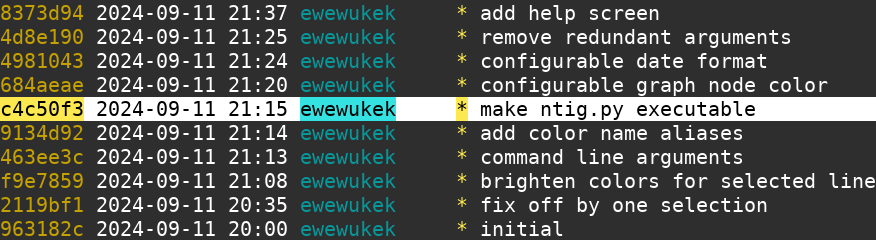
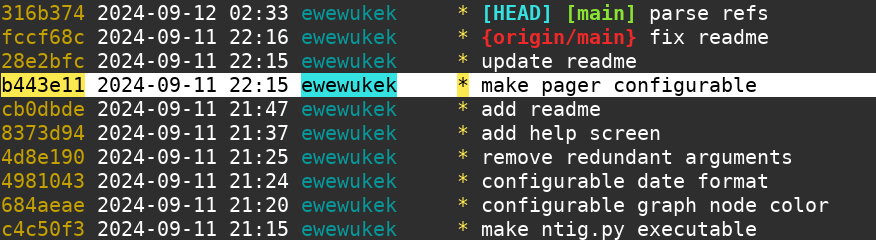
parse refs

diff --git a/ntig.py b/ntig.py
@@ -51,6 +51,12 @@ def load_log(cfg):
             '--pretty=format:%ad %aN %h %s',
             '--date=format:%s'
         ])
+
+        if '{refs}' in cfg['log_fmt']:
+            refs_data = subprocess.check_output(['git', 'show-ref', '--head'])
+        else:
+            refs_data = b''
+
     except subprocess.CalledProcessError as e:
         if e.output:
             print(e.output)
@@ -71,6 +77,7 @@ def load_log(cfg):
             'date': '',
             'author': '',
             'hash': '',
+            'refs': '',
             'message': '',
         }
         if m := log_line_re.match(line):
@@ -85,7 +92,7 @@ def load_log(cfg):
 
         g = g.strip()
         g = brighten(g)
-        if cfg['node_color'] and cfg['node_color'] != COLORS['default']:
+        if cfg['node_color'] != COLORS['default']:
             g = g.replace('*', cfg['node_color'] + '*' + COLORS['default'])
         g = g.replace('\033[m', '\033[39m')
         commit['graph'] = g
@@ -95,10 +102,71 @@ def load_log(cfg):
 
         log.append(commit)
 
+    refs = {}
+    refs_line_re = re.compile(r'^([0-9a-f]{40,}) (.*)$')
+    for line in refs_data.splitlines():
+        line = line.decode('utf8')
+
+        m = refs_line_re.match(line)
+        h = m.group(1)[0:lengths['hash']]
+        if h not in refs:
+            refs[h] = {}
+
+        ref = m.group(2)
+        if ref == 'HEAD':
+            if cfg['decorate']:
+                ref = '[' + ref + ']'
+            refs[h]['head'] = [ref]
+
+        elif ref[0:11] == 'refs/heads/':
+            if 'branch' not in refs[h]:
+                refs[h]['branch'] = []
+            ref = ref[11:]
+            if cfg['decorate']:
+                ref = '[' + ref + ']'
+            refs[h]['branch'].append(ref)
+
+        elif ref[0:13] == 'refs/remotes/':
+            if 'remote' not in refs[h]:
+                refs[h]['remote'] = []
+            ref = ref[13:]
+            if cfg['decorate']:
+                ref = '{' + ref + '}'
+            refs[h]['remote'].append(ref)
+
+        elif ref[0:10] == 'refs/tags/':
+            if 'tag' not in refs[h]:
+                refs[h]['tag'] = []
+            ref = ref[10:]
+            if cfg['decorate']:
+                ref = '<' + ref + '>'
+            refs[h]['tag'].append(ref)
+
+        elif ref == 'refs/stash':
+            if cfg['decorate']:
+                ref = '[' + ref + ']'
+            refs[h]['stash'] = [ref]
+
     for commit in log:
+        if commit['hash'] in refs:
+            ref = refs[commit['hash']]
+            parts = []
+            for field in ['head', 'branch', 'tag', 'remote', 'stash']:
+                if field in ref:
+                    part = ' '.join(ref[field])
+                    color = cfg[f'{field}_color']
+                    if color != COLORS['default']:
+                        part = color + part + '\033[39m'
+                    parts.append(part)
+
+            commit['refs'] = ' '.join(parts)
+            if cfg['refs_bold']:
+                commit['refs'] = '\033[1m' + commit['refs'] + '\033[22m'
+            commit['refs'] += ' '
+
         for field in ['date', 'author', 'hash']:
             color = cfg[f'{field}_color']
-            if color and color != COLORS['default']:
+            if color != COLORS['default']:
                 commit[field] = (
                     color + commit[field] + COLORS['default']
                     + ' ' * (lengths[field] - len(commit[field])))
@@ -142,6 +210,12 @@ def parse_arguments():
         default='default',
         metavar='')
     parser.add_argument(
+        '--ntig-date-fmt',
+        help='date format',
+        dest='date_fmt',
+        default='%d %b %H:%M',
+        metavar='')
+    parser.add_argument(
         '--ntig-author',
         help='author name color',
         dest='author_color',
@@ -153,17 +227,53 @@ def parse_arguments():
         dest='node_color',
         default='bright-yellow',
         metavar='')
+
     parser.add_argument(
-        '--ntig-date-fmt',
-        help='date format',
-        dest='date_fmt',
-        default='%d %b %H:%M',
+        '--ntig-head',
+        help='HEAD color',
+        dest='head_color',
+        default='bright-cyan',
         metavar='')
+    parser.add_argument(
+        '--ntig-branch',
+        help='local branch color',
+        dest='branch_color',
+        default='bright-green',
+        metavar='')
+    parser.add_argument(
+        '--ntig-remote',
+        help='remote branch color',
+        dest='remote_color',
+        default='bright-red',
+        metavar='')
+    parser.add_argument(
+        '--ntig-tag',
+        help='tag color',
+        dest='tag_color',
+        default='bright-yellow',
+        metavar='')
+    parser.add_argument(
+        '--ntig-stash',
+        help='stash color',
+        dest='stash_color',
+        default='bright-blue',
+        metavar='')
+    parser.add_argument(
+        '--ntig-refs-bold',
+        help='show refs in bold',
+        action='store_true',
+        dest='refs_bold')
+    parser.add_argument(
+        '--ntig-decorate',
+        help='decorate refs',
+        action='store_true',
+        dest='decorate')
+
     parser.add_argument(
         '--ntig-log',
         help='log format',
         dest='log_fmt',
-        default='{hash} {date} {author} {graph} {message}',
+        default='{hash} {date} {author} {graph} {refs}{message}',
         metavar='')
     parser.add_argument(
         '--ntig-pager',
@@ -181,11 +291,15 @@ def parse_arguments():
     else:
         cfg['pager'] = shlex.split(cfg['pager'])
 
-    for field in ['hash_color', 'date_color', 'author_color', 'node_color']:
+    for field in ['hash_color', 'date_color', 'author_color', 'node_color',
+                  'head_color', 'branch_color', 'remote_color',
+                  'tag_color', 'stash_color']:
         color = cfg[field]
+        if not color.strip():
+            color = 'default'
         if color[0:4] == '\\033':
             color = '\033' + color[4:]
-        if color and color[0:1] != '\033':
+        if color[0:1] != '\033':
             if color in COLORS:
                 color = COLORS[color]
             else:

diff --git a/README.md b/README.md
@@ -1,6 +1,6 @@
 Interactive git log with commit preview. Inspired by [Tig](https://jonas.github.io/tig/).
 
-Requires `termios` package.
+Requires `termios` package and ANSI escape sequences support.
 
 ![](screenshot.png?raw=true)
 
@@ -8,10 +8,17 @@ Requires `termios` package.
 options:
   --ntig-hash       hash color (default: yellow)
   --ntig-date       date color (default: default)
+  --ntig-date-fmt   date format (default: %d %b %H:%M)
   --ntig-author     author name color (default: cyan)
   --ntig-node       graph node color (default: bright-yellow)
-  --ntig-date-fmt   date format (default: %d %b %H:%M)
-  --ntig-log        log format (default: {hash} {date} {author} {graph} {message})
+  --ntig-head       HEAD color (default: bright-cyan)
+  --ntig-branch     local branch color (default: bright-green)
+  --ntig-remote     remote branch color (default: bright-red)
+  --ntig-tag        tag color (default: bright-yellow)
+  --ntig-stash      stash color (default: bright-blue)
+  --ntig-refs-bold  show refs in bold (default: False)
+  --ntig-decorate   decorate refs (default: False)
+  --ntig-log        log format (default: {hash} {date} {author} {graph} {refs}{message})
   --ntig-pager      pager to pipe output of git show (default: none)
 
 other options will be passed to git log
